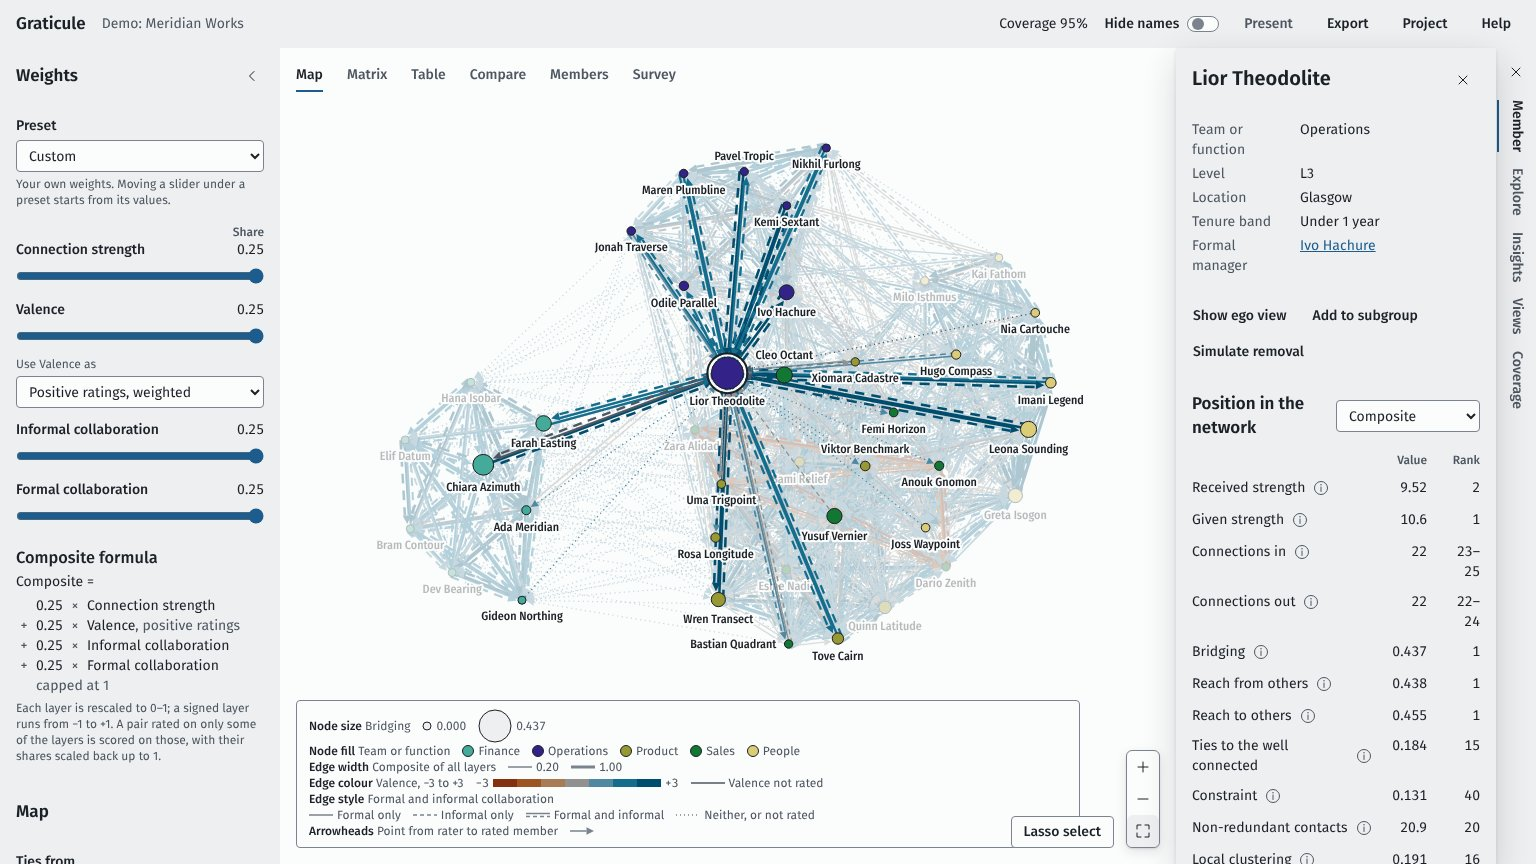
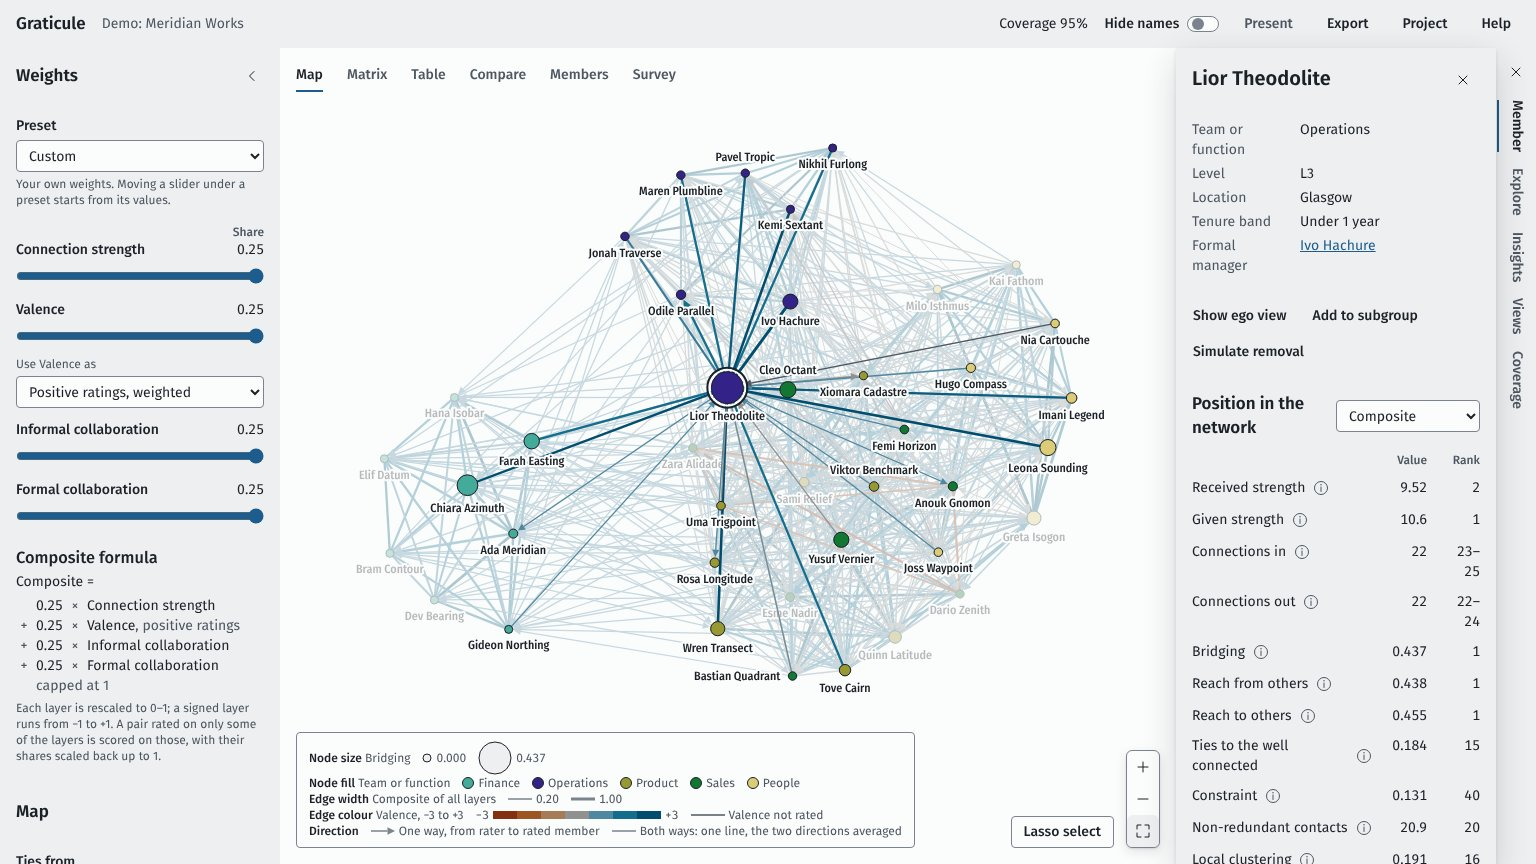
Adapt the compact layout to D131 after merging main
The arrows legend section now lists one-way and both-way items (D131), so
the condensed-legend unit test builds it that way. Screenshots and the
measurements in the D125 row are regenerated on the combined code.

Claude-Session: https://claude.ai/code/session_01GmeYqrXXbhvp62QVRkDQkf

Changed region(s): [[0.2188, 0.1562, 0.7188, 0.8125], [0.1875, 0.8125, 0.5938, 0.9688]]

diff --git a/tests/unit/layoutMode.test.ts b/tests/unit/layoutMode.test.ts
@@ -205,7 +205,15 @@ describe('condensed legend', () => {
       ],
       notes: ['Ties below 0.20 are hidden.'],
     },
-    { kind: 'arrows', title: 'Arrowheads', variable: 'Point from rater to rated member' },
+    {
+      kind: 'arrows',
+      title: 'Direction',
+      variable: '',
+      items: [
+        { arrow: true, label: 'One way' },
+        { arrow: false, label: 'Both ways' },
+      ],
+    },
   ];
 
   it('keeps every encoding and note, and only the end points of a scale', () => {

diff --git a/CLAUDE.md b/CLAUDE.md
@@ -187,7 +187,7 @@ Requested by the owner on 2026-10-21: the workspace works on large screens but b
 
 | # | Date | Decision | Status | Where |
 |---|---|---|---|---|
-| D125 | 2026-10-21 | Compact layout. A fourth layout mode beside D112's, `compact`, chosen automatically when the window is narrower than `--workspace-wide` (1600px) or shorter than `--workspace-short` (900px) and at least `--workspace-desktop` wide; Help gets "Layout: Automatic / Compact / Full", stored in `localStorage` as `graticule.layout` (a UI preference like D20, removed by Clear local data, D30). Both side columns can collapse to a rail with an `aria-expanded` toggle naming the column. In compact mode the right column is a drawer over the map's right edge (an overlay, so elevation is allowed, spec §12): it opens when a member is selected or one of its tabs is chosen, and Escape or its close button closes it and returns focus to where it was opened from; the left column collapses to a rail labelled "Weights and map settings". Compact column widths `--col-left-compact` 280px and `--col-right-compact` 320px. The legend has three states: full (as now), condensed (one line per encoding with its variable and range end points; the compact default) and beside the map (its own column, as presentation mode); it is never removed (spec §8). "Lasso select" moves into the zoom control group; status messages sit inline in the top bar in compact mode, while the coverage warning stays visible; panel padding is `s-4` instead of `s-5`. Fit to view keeps members clear of the drawer and the condensed legend (D57, D69). Presentation mode is checked at 1280 × 720. Acceptance: at 1280 × 720, 1366 × 768 and 1536 × 864 the map's drawing area is at least 60 % of its canvas and the legend covers at most 20 %, with axe and keyboard checks of the drawer. **Built 2026-10-21.** The mode is chosen by `chooseLayout` from the window's width and height (a `resize` listener, still settled for `--workspace-settle`); the Help menu's three items are `menuitemradio`s, Automatic is stored as no value, and the preference never applies below `--workspace-desktop`, so tablet and phone follow the width alone. The left column starts expanded and collapses with a chevron button at its top right to a `--rail-width` rail whose button reads "Weights and map settings" vertically; focus follows the toggle. The right column is always a rail in compact mode: the toggle (`aria-expanded`, `aria-controls` the drawer; a close glyph while open) above the five tabs set vertically (up and down arrows); choosing a tab, selecting a member (`selectMember`, `setRightPanel`) or the toggle opens the drawer, `--col-right-compact` wide, beside the rail over the map's right edge, at `e-2`. Escape anywhere in the drawer closes it and returns focus to where it was opened from (a tab, the toggle, or a control outside the column); when the toggle itself closes it, focus stays on the toggle; the member panel's own Escape, and Escape on a map member, close the panel and the drawer and leave focus on the member (D55). A control that handles Escape itself (renaming a view) keeps the drawer open. While the drawer is open the zoom group and a legend beside the map move clear of it (`:has()`), a member selected under it is panned into view, and fit to view keeps members left of it (the map does not refit when the drawer opens, so nothing moves under the pointer); the centre column is `isolation: isolate` so the matrix's sticky headers stay under it. The legend's form is a "Legend" select at the end of the map controls (Condensed, Full, Beside the map), view state in `ui.legend` (not saved in views or the project); choosing a form refits the map. Condensed keeps every section and note and only the end points of a scale (`condensedSections`), with line samples a swatch wide. The canvas reports the free area fit to view uses as `data-free-area` for the acceptance test, which measured 76 / 78 / 81 % free and 17 / 15 / 11 % legend at the three sizes (before: legend 39 / 32 / 24 %, network about 230 × 180 px at 1280 × 720). The status message sits in the top bar after the project title (truncated with an ellipsis when the bar is full); the coverage warning replaces the bar's coverage figure in a short form ("Coverage 16% is below the 80% threshold", a note), so it is never truncated, and the map's own coverage note keeps the full text. The collapsible columns, the status line in the top bar and the selection tools in the zoom group apply in compact mode only; the full desktop layout is unchanged. Presentation mode at 1280 × 720 is compact, so its legend column uses `s-3` gaps to fit the screen. Tokens added: `--workspace-wide` 1600px, `--workspace-short` 900px, `--col-left-compact` 280px, `--col-right-compact` 320px, `--rail-width` 40px, `--map-legend-beside-width` 240px. Tests: `tests/unit/layoutMode.test.ts`; `tests/e2e/audit.spec.ts` (the full audit at the three sizes, the acceptance measurements with axe, the drawer and rails by keyboard, the layout preference); screenshots before and after in `docs/screenshots/compact/` | Approved | `src/ui/state/layoutMode.ts`, `src/styles/layout.css`, `src/ui/views/Workspace.tsx`, `MapView.tsx`, `MapLegend.tsx` |
+| D125 | 2026-10-21 | Compact layout. A fourth layout mode beside D112's, `compact`, chosen automatically when the window is narrower than `--workspace-wide` (1600px) or shorter than `--workspace-short` (900px) and at least `--workspace-desktop` wide; Help gets "Layout: Automatic / Compact / Full", stored in `localStorage` as `graticule.layout` (a UI preference like D20, removed by Clear local data, D30). Both side columns can collapse to a rail with an `aria-expanded` toggle naming the column. In compact mode the right column is a drawer over the map's right edge (an overlay, so elevation is allowed, spec §12): it opens when a member is selected or one of its tabs is chosen, and Escape or its close button closes it and returns focus to where it was opened from; the left column collapses to a rail labelled "Weights and map settings". Compact column widths `--col-left-compact` 280px and `--col-right-compact` 320px. The legend has three states: full (as now), condensed (one line per encoding with its variable and range end points; the compact default) and beside the map (its own column, as presentation mode); it is never removed (spec §8). "Lasso select" moves into the zoom control group; status messages sit inline in the top bar in compact mode, while the coverage warning stays visible; panel padding is `s-4` instead of `s-5`. Fit to view keeps members clear of the drawer and the condensed legend (D57, D69). Presentation mode is checked at 1280 × 720. Acceptance: at 1280 × 720, 1366 × 768 and 1536 × 864 the map's drawing area is at least 60 % of its canvas and the legend covers at most 20 %, with axe and keyboard checks of the drawer. **Built 2026-10-21.** The mode is chosen by `chooseLayout` from the window's width and height (a `resize` listener, still settled for `--workspace-settle`); the Help menu's three items are `menuitemradio`s, Automatic is stored as no value, and the preference never applies below `--workspace-desktop`, so tablet and phone follow the width alone. The left column starts expanded and collapses with a chevron button at its top right to a `--rail-width` rail whose button reads "Weights and map settings" vertically; focus follows the toggle. The right column is always a rail in compact mode: the toggle (`aria-expanded`, `aria-controls` the drawer; a close glyph while open) above the five tabs set vertically (up and down arrows); choosing a tab, selecting a member (`selectMember`, `setRightPanel`) or the toggle opens the drawer, `--col-right-compact` wide, beside the rail over the map's right edge, at `e-2`. Escape anywhere in the drawer closes it and returns focus to where it was opened from (a tab, the toggle, or a control outside the column); when the toggle itself closes it, focus stays on the toggle; the member panel's own Escape, and Escape on a map member, close the panel and the drawer and leave focus on the member (D55). A control that handles Escape itself (renaming a view) keeps the drawer open. While the drawer is open the zoom group and a legend beside the map move clear of it (`:has()`), a member selected under it is panned into view, and fit to view keeps members left of it (the map does not refit when the drawer opens, so nothing moves under the pointer); the centre column is `isolation: isolate` so the matrix's sticky headers stay under it. The legend's form is a "Legend" select at the end of the map controls (Condensed, Full, Beside the map), view state in `ui.legend` (not saved in views or the project); choosing a form refits the map. Condensed keeps every section and note and only the end points of a scale (`condensedSections`), with line samples a swatch wide. The canvas reports the free area fit to view uses as `data-free-area` for the acceptance test, which measured 76 / 78 / 81 % free and 17 / 15 / 11 % legend at the three sizes, and 79 / 80 / 83 % free and 12 / 10 / 8 % legend once combined with D131 and D133 (before: legend 39 / 32 / 24 %, network about 230 × 180 px at 1280 × 720). The status message sits in the top bar after the project title (truncated with an ellipsis when the bar is full); the coverage warning replaces the bar's coverage figure in a short form ("Coverage 16% is below the 80% threshold", a note), so it is never truncated, and the map's own coverage note keeps the full text. The collapsible columns, the status line in the top bar and the selection tools in the zoom group apply in compact mode only; the full desktop layout is unchanged. Presentation mode at 1280 × 720 is compact, so its legend column uses `s-3` gaps to fit the screen. Tokens added: `--workspace-wide` 1600px, `--workspace-short` 900px, `--col-left-compact` 280px, `--col-right-compact` 320px, `--rail-width` 40px, `--map-legend-beside-width` 240px. Tests: `tests/unit/layoutMode.test.ts`; `tests/e2e/audit.spec.ts` (the full audit at the three sizes, the acceptance measurements with axe, the drawer and rails by keyboard, the layout preference); screenshots before and after in `docs/screenshots/compact/` | Approved | `src/ui/state/layoutMode.ts`, `src/styles/layout.css`, `src/ui/views/Workspace.tsx`, `MapView.tsx`, `MapLegend.tsx` |
 | D126 | 2026-10-21 | Encoding choices (amends D53). Edge colour: valence (default, with D132), any other enabled signed layer on the diverging scale, "Within or between groups" (two classes, by the node-fill attribute; with community fill, by community), any enabled unsigned layer on the matrix's sequential ramp, or none (`stone`). Edge width: the "Ties from" layer's weight (default), any other enabled unsigned layer, or the same width for every tie; "Ties from" still decides which pairs are edges. A drawn tie with no rating on the width layer is drawn at the thinnest width in `stone` with its own legend entry ("Not rated on <layer>"), so it is never read as 0. Edge style: formal and informal (D53's four styles) or none (default, D133). Every choice is explained in the legend and carried by the scene, so SVG, PNG and PDF follow (D50, D107). When the signed-layer exclusion (D105) removes the colour layer, exports draw edge colour as none and the legend says so; D110's tests cover each choice | Approved | `src/ui/map/model.ts`, `scene.ts`, `legend.ts`, `src/ui/views/MapControls.tsx`, `src/ui/export/document.ts` |
 | D127 | 2026-10-21 | Palettes (amends D11). The analyst chooses a categorical palette (Paul Tol muted, the default; Tol bright; Okabe–Ito) and a diverging palette (the current orange-brown / grey / blue, the default; a purple–green; a red–blue) from a curated set defined as tokens, and may pin a group (an attribute value) to one hue of the chosen palette so it keeps its colour across views and presentations. No free colour entry, so spec §12's token rule holds. A palette is offered only if `tests/unit/contrast.test.ts` passes it: every data colour at least 3:1 against the map ground, and a ΔE00 floor under normal vision and the three colour-vision simulations (the floors of design-system §2.1 and §2.2: categorical as the current palette's worst case, diverging ≥ 30 for opposite signs and ≥ 9.5 for adjacent steps); a candidate that fails is dropped, not the test relaxed, and its tables are added to design-system §2. The accent never appears on the map (D12). Palette and pins are project settings (`settings.palette`, `settings.group_colours`), saved through `updateProjectViews` without recalculation, and used by the canvas, render worker, legend and every export | Approved | `src/styles/tokens.css`, `src/ui/map/theme.ts`, `docs/design-system.md`, `tests/unit/contrast.test.ts` |
 | D128 | 2026-10-21 | Schema version 4. The encoding choices (D126, D132, D134, D136) are map settings and saved-view fields; the palette and pins (D127) are project settings. Schema 3 was released in 1.0.0, so it is not extended in place (as D102 did before release): version 4 with a 3 → 4 migration (`savedViewV3toV4`) that gives every new field its default, a version 3 fixture `tests/fixtures/migrations/v3.ts` (TypeScript, D34), a round-trip test, and every new field checked on load. Insight view links (D73) and view restore (D76) set the new fields. The demo and the NetworkX fixtures are regenerated; only the demo file's SHA-256 should change in the fixtures | Approved | `src/data/schema.ts`, `src/data/migrations.ts`, `src/ui/state/store.ts` |
